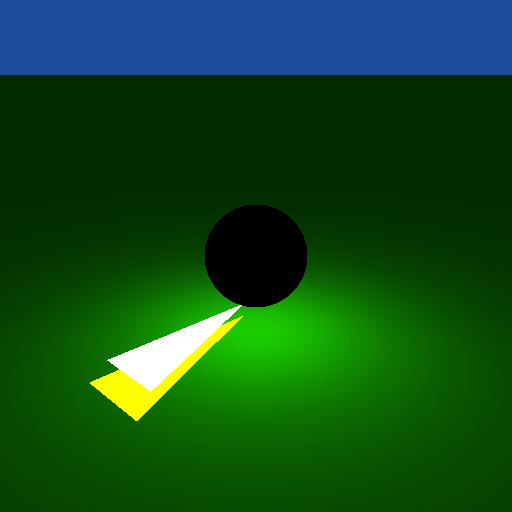
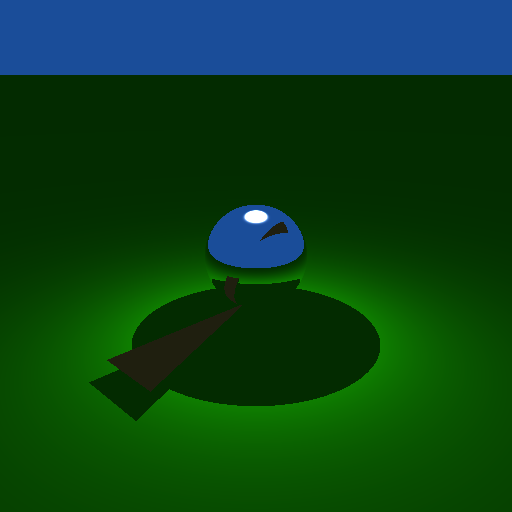
Did Phong task

Changed region(s): [[0.1875, 0.375, 0.75, 0.8438]]

diff --git a/raytrace/RayTracer.cpp b/raytrace/RayTracer.cpp
@@ -24,7 +24,7 @@ bool RayTracer::trace_reflected(const Ray& in, const HitInfo& in_hit, Ray& out, 
     //
     // Hints: (a) There is a reflect function available in the OptiX math library.
     //        (b) Set out_hit.ray_ior and out_hit.trace_depth.
-    out = Ray(in_hit.position, optix::reflect(in.direction, in_hit.shading_normal), 0, in.tmin, in.tmax);  
+    out = Ray(in_hit.position, optix::reflect(in.direction, in_hit.shading_normal), 0, 0.0001, in.tmax);  
     out_hit.ray_ior = in_hit.ray_ior;
     out_hit.trace_depth = in_hit.trace_depth + 1;
     return this->trace_to_closest(out, out_hit);
@@ -32,20 +32,25 @@ bool RayTracer::trace_reflected(const Ray& in, const HitInfo& in_hit, Ray& out, 
 
 bool RayTracer::trace_refracted(const Ray& in, const HitInfo& in_hit, Ray& out, HitInfo& out_hit) const
 {
-  // Initialize the refracted ray and trace it.
-  //
-  // Input:  in         (the ray to be refracted)
-  //         in_hit     (info about the ray-surface intersection)
-  //
-  // Output: out        (the refracted ray)
-  //         out_hit    (info about the refracted ray)
-  //
-  // Return: true if the refracted ray hit anything
-  //
-  // Hints: (a) There is a refract function available in the OptiX math library.
-  //        (b) Set out_hit.ray_ior and out_hit.trace_depth.
-  //        (c) Remember that the function must handle total internal reflection.
-  return false;
+    // Initialize the refracted ray and trace it.
+    //
+    // Input:  in         (the ray to be refracted)
+    //         in_hit     (info about the ray-surface intersection)
+    //
+    // Output: out        (the refracted ray)
+    //         out_hit    (info about the refracted ray)
+    //
+    // Return: true if the refracted ray hit anything
+    //
+    // Hints: (a) There is a refract function available in the OptiX math library.
+    //        (b) Set out_hit.ray_ior and out_hit.trace_depth.
+    //        (c) Remember that the function must handle total internal reflection.
+    out = Ray(in_hit.position, make_float3(0) , 0, 0.0001, in.tmax);
+    out_hit.ray_ior = in_hit.ray_ior;
+    out_hit.trace_depth = in_hit.trace_depth + 1;
+    float3 normal = in_hit.shading_normal;
+
+    return optix::refract(out.direction, in.direction, in_hit.shading_normal, get_ior_out(in, in_hit, normal)) && this->trace_to_closest(out, out_hit);;
 }
 
 bool RayTracer::trace_refracted(const Ray& in, const HitInfo& in_hit, Ray& out, HitInfo& out_hit, float& R) const

diff --git a/raytrace/Glossy.cpp b/raytrace/Glossy.cpp
@@ -15,24 +15,38 @@ using namespace optix;
 
 float3 Glossy::shade(const Ray& r, HitInfo& hit, bool emit) const
 {
-  // Implement glossy reflection here.
-  //
-  // Input:  r          (the ray that hit the material)
-  //         hit        (info about the ray-surface intersection)
-  //         emit       (passed on to Emission::shade)
-  //
-  // Return: radiance reflected to where the ray was coming from
-  //
-  // Relevant data fields that are available (see Mirror.h and HitInfo.h):
-  // max_depth          (maximum trace depth)
-  // tracer             (pointer to ray tracer)
-  // hit.trace_depth    (number of surface interactions previously suffered by the ray)
-  //
-  // Hint: Use the function shade_new_ray(...) to pass a newly traced ray to
-  //       the shader for the surface it hit.
+    // Implement glossy reflection here.
+    //
+    // Input:  r          (the ray that hit the material)
+    //         hit        (info about the ray-surface intersection)
+    //         emit       (passed on to Emission::shade)
+    //
+    // Return: radiance reflected to where the ray was coming from
+    //
+    // Relevant data fields that are available (see Mirror.h and HitInfo.h):
+    // max_depth          (maximum trace depth)
+    // tracer             (pointer to ray tracer)
+    // hit.trace_depth    (number of surface interactions previously suffered by the ray)
+    //
+    // Hint: Use the function shade_new_ray(...) to pass a newly traced ray to
+    //       the shader for the surface it hit.
 
-  return Mirror::shade(r, hit, emit);
-  //return Transparent::shade(r, hit, emit);
+    if (hit.trace_depth >= max_depth)
+        return make_float3(0.0f);
 
-  //return Phong::shade(r, hit, emit);
+    float R;
+    Ray reflected, refracted;
+    HitInfo hit_reflected, hit_refracted;
+    tracer->trace_reflected(r, hit, reflected, hit_reflected);
+    tracer->trace_refracted(r, hit, refracted, hit_refracted, R);
+    float3 result = Phong::shade(r, hit, emit) + R * shade_new_ray(reflected, hit_reflected) + (1.0f - R) * shade_new_ray(refracted, hit_refracted);
+    if (abs(result.x - (31.0f / 256)) <= 0.1 && abs(result.y - (31.0f / 256)) <= 0.1 && abs(result.z - (15.0f / 256)) <= 0.1) {
+        int i = 4;
+    }
+    return result;
+    
+    //return Mirror::shade(r, hit, emit);
+    //return Transparent::shade(r, hit, emit);
+
+    //return Phong::shade(r, hit, emit);
 }

diff --git a/raytrace/Phong.cpp b/raytrace/Phong.cpp
@@ -35,6 +35,18 @@ float3 Phong::shade(const Ray& r, HitInfo& hit, bool emit) const
   // s                  (shininess or Phong exponent of the material)
   //
   // Hint: Call the sample function associated with each light in the scene.
-
-  return Lambertian::shade(r, hit, emit);
+  float3 result = make_float3(0);
+  for(Light* light : lights){
+      float3 light_dir, L;
+      if (!light->sample(hit.position, light_dir, L)) continue;
+      float3 n = hit.shading_normal;
+      float3 wi = light_dir;
+      float3 wr = 2 * dot(wi, n) * n - wi;
+      float3 wo = -r.direction;
+      result += rho_d * M_1_PIf + rho_s * (s + 2) * (2 * M_1_PIf) * pow(dot(wo, wr), s) * L * dot(wi, n);
+  }
+  result.x = clamp(result.x, 0.0f, 1.0f);
+  result.y = clamp(result.y, 0.0f, 1.0f);
+  result.z = clamp(result.z, 0.0f, 1.0f);
+  return result;
 }

diff --git a/raytrace/RenderEngine.cpp b/raytrace/RenderEngine.cpp
@@ -125,7 +125,7 @@ void RenderEngine::load_files(int argc, char** argv)
     scene.add_sphere(make_float3(0.0f, 0.5f, 0.0f), 0.3f, "../models/default_scene.mtl", 2);
     scene.add_triangle(make_float3(-0.2f, 0.1f, 0.9f), make_float3(0.2f, 0.1f, 0.9f), make_float3(-0.2f, 0.1f, -0.1f), "../models/default_scene.mtl", 3);
     scene.add_light(new PointLight(&tracer, make_float3(M_PIf), make_float3(0.0f, 1.0f, 0.0f)));
-
+   
     init_view();
     float3 eye = make_float3(2.0f, 1.5f, 2.0f);
     float3 lookat = make_float3(0.0f, 0.5, 0.0f);

diff --git a/raytrace/RayCaster.cpp b/raytrace/RayCaster.cpp
@@ -23,7 +23,7 @@ float3 RayCaster::compute_pixel(unsigned int x, unsigned int y) const
 	scene->closest_hit(ray,*hitInfo);
 
     if (hitInfo->has_hit) {
-		return get_shader(*hitInfo)->shade(ray,*hitInfo);
+        return get_shader(*hitInfo)->shade(ray,*hitInfo);
 	}
 	else {
 		return get_background();
